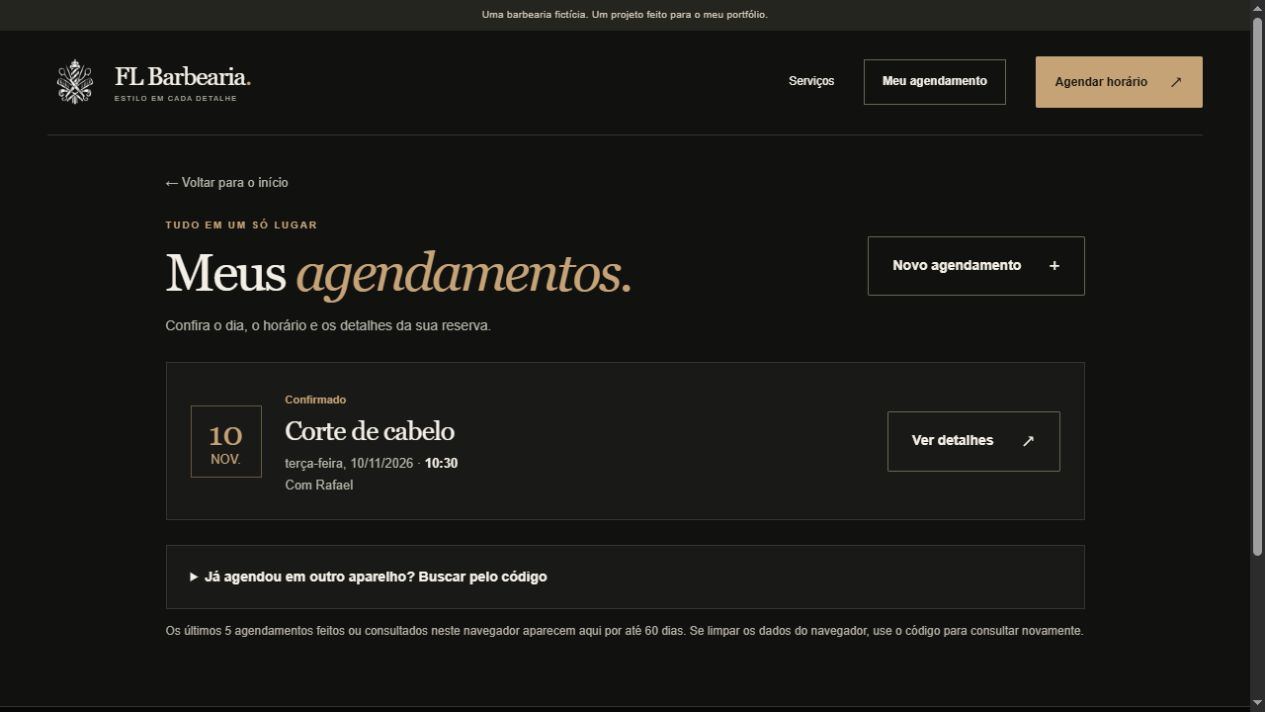
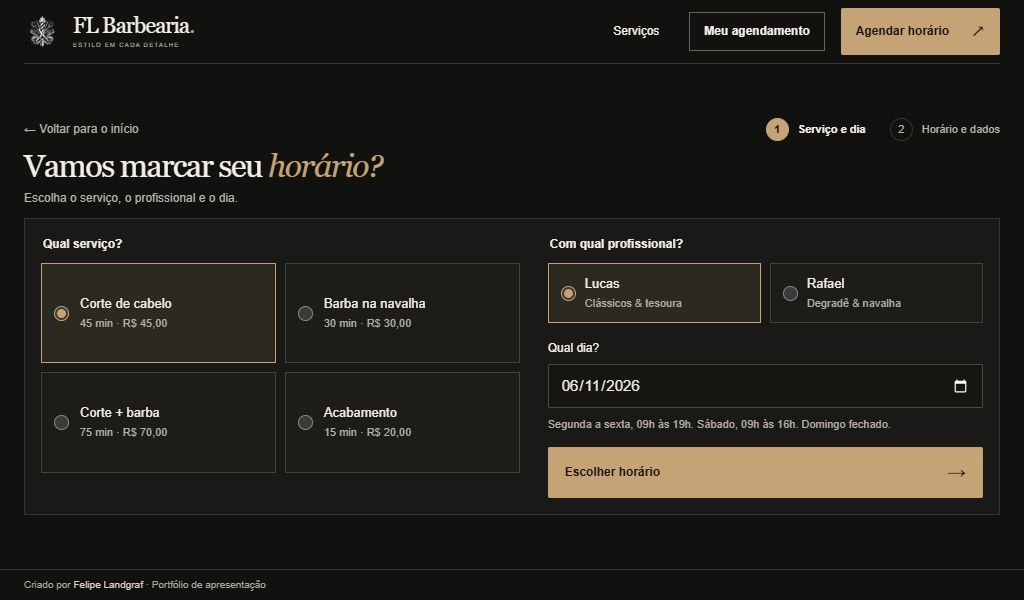
Compacta páginas de agendamento para computador e celular

diff --git a/site/agenda.css b/site/agenda.css
@@ -1,0 +1,171 @@
+.pagina-interna {
+    min-height: 100svh;
+    display: flex;
+    flex-direction: column;
+}
+
+.pagina-interna > .faixa-demo { display: none; }
+.pagina-interna .cabecalho { min-height: 64px; max-width: 1100px; width: calc(100% - 48px); padding: 0; }
+.pagina-interna .marca img { width: 36px; height: 36px; }
+.pagina-interna .marca strong { font-size: 22px; }
+.pagina-interna .marca small { font-size: 6px; }
+.pagina-interna .cabecalho nav { gap: 16px; }
+.pagina-interna .cabecalho nav > a { padding: 9px 14px; }
+.pagina-interna main { flex: 1; display: flex; align-items: center; justify-content: center; padding: 12px 24px; }
+.pagina-interna .pagina-agenda, .pagina-interna .pagina-curta { width: min(100%, 1040px); min-height: 0; margin: 0; padding: 0; }
+.pagina-interna .voltar { margin-bottom: 9px; font-size: 12px; }
+.pagina-interna .etapas { gap: 24px; }
+.pagina-interna .etapas li { font-size: 11px; }
+.pagina-interna .etapas span { width: 23px; height: 23px; }
+.navegacao-agenda { display: flex; justify-content: space-between; align-items: center; gap: 16px; margin-bottom: 8px; }
+.pagina-interna .navegacao-agenda .voltar { margin: 0; }
+.pagina-interna h1 { font-size: 32px; margin: 6px 0 5px; }
+.pagina-interna .introducao-agenda, .pagina-interna .reserva > p:not(.etiqueta) { font-size: 12px; margin-bottom: 10px; }
+.pagina-interna .agenda-formularios { padding: 16px; margin: 0; }
+.pagina-interna fieldset { margin-bottom: 16px; }
+.pagina-interna legend, .pagina-interna label { font-size: 12px; }
+.pagina-interna legend { margin-bottom: 8px; }
+.pagina-interna .escolha { padding: 10px 12px; min-height: 60px; line-height: 1.35; }
+.pagina-interna .escolha strong { font-size: 13px; }
+.pagina-interna .escolha small { font-size: 11px; margin-top: 2px; }
+.pagina-interna .iniciais { display: none; }
+.pagina-interna .botao { min-height: 42px; padding: 11px 16px; font-size: 12px; }
+.pagina-interna input:not([type="radio"]):not([type="checkbox"]):not([type="hidden"]) { min-height: 42px; padding: 9px 12px; margin-top: 5px; font-size: 15px; }
+.pagina-interna .texto-apoio { font-size: 11px; margin-top: 8px; line-height: 1.5; }
+.pagina-interna .mensagem { padding: 10px 13px; margin-bottom: 12px; }
+.pagina-interna .ajuda-final { font-size: 12px; margin-top: 12px; }
+.tela-servico #consulta-horarios { display: grid; grid-template-columns: 1.1fr 1fr; gap: 28px; }
+.tela-servico .servicos-agenda { margin: 0; }
+.tela-servico .opcoes-servico { height: calc(100% - 25px); }
+.pagina-interna .proxima-etapa { margin-top: 14px; }
+.pagina-interna .selecao-atual { font-size: 13px; padding-bottom: 10px; margin-bottom: 14px; }
+.pagina-interna .selecao-atual span { font-size: 11px; margin-top: 2px; }
+.pagina-interna .selecao-atual > div { display: flex; gap: 14px; align-items: center; }
+.tela-horarios #form-agendar { display: grid; grid-template-columns: 1.2fr 1fr; gap: 24px; align-items: start; }
+.tela-horarios .escolher-hora { margin: 0; }
+.pagina-interna .horarios { grid-template-columns: repeat(8, 1fr); gap: 6px; }
+.pagina-interna .hora span { display: grid; place-items: center; min-height: 36px; padding: 6px 2px; line-height: 1.3; font-size: 13px; }
+.pagina-interna .dados-cliente { grid-template-columns: 1fr 1fr; gap: 9px; }
+.pagina-interna .resumo { margin: 13px 0; padding-top: 11px; }
+.pagina-interna .resumo > div strong { font-size: 13px; }
+.pagina-interna .resumo > div span { font-size: 12px; }
+.pagina-interna .resumo-preco { font-size: 25px; }
+.paginacao { display: flex; justify-content: space-between; align-items: center; gap: 12px; margin-top: 10px; }
+.paginacao button { min-height: 36px; border: 1px solid #696353; background: transparent; color: var(--texto); padding: 5px 12px; font-size: 12px; }
+.paginacao button:disabled { opacity: 0.35; cursor: default; }
+.paginacao span { font-size: 11px; color: var(--suave); }
+.pagina-interna .titulo-agenda { gap: 16px; margin: 0; }
+.pagina-interna .titulo-agenda h1 { margin-top: 5px; }
+.pagina-interna .cartao-reserva { padding: 14px 18px; gap: 18px; }
+.pagina-interna .data-reserva { width: 56px; padding: 5px; }
+.pagina-interna .data-reserva strong { font-size: 28px; }
+.pagina-interna .data-reserva span { font-size: 11px; }
+.pagina-interna .cartao-informacoes h2 { font-size: 24px; margin: 2px 0 4px; }
+.pagina-interna .cartao-informacoes p { font-size: 12px; }
+.pagina-interna .lista-reservas { gap: 10px; }
+.pagina-interna .agenda-vazia { padding: 18px; }
+.pagina-interna .agenda-vazia > span { display: none; }
+.pagina-interna .agenda-vazia h2 { font-size: 26px; margin: 0 0 8px; }
+.pagina-interna .agenda-vazia p { font-size: 12px; margin-bottom: 14px; }
+.pagina-interna .buscar-reserva, .pagina-interna .historico, .pagina-interna .cancelar-reserva { margin-top: 12px; padding: 12px 16px; }
+.pagina-interna .buscar-reserva summary, .pagina-interna .historico summary, .pagina-interna .cancelar-reserva summary { font-size: 12px; }
+.pagina-interna .buscar-reserva > p { margin-top: 10px; font-size: 12px; }
+.pagina-interna .buscar-reserva form { display: grid; grid-template-columns: 1fr 1fr auto; gap: 16px; align-items: end; margin-top: 12px; }
+.pagina-interna .buscar-reserva label { margin: 0; }
+.pagina-interna .historico .lista-reservas { margin-top: 12px; }
+.meus-agendamentos:has(.buscar-reserva[open]) .area-reservas { display: none; }
+.area-reservas:has(.historico[open]) > .lista-reservas, .area-reservas:has(.historico[open]) > .paginacao, .area-reservas:has(.historico[open]) > .agenda-vazia { display: none; }
+.pagina-interna .reserva { max-width: 960px; }
+.navegacao-reserva { display: flex; justify-content: space-between; gap: 16px; align-items: center; margin-bottom: 8px; }
+.pagina-interna .navegacao-reserva .voltar { margin: 0; }
+.resumo-cancelar { display: none; }
+.pagina-interna .reserva-conteudo { display: grid; grid-template-columns: 1.2fr 1fr; gap: 24px; align-items: start; }
+.pagina-interna .bilhete { margin: 0; padding: 18px 22px; }
+.pagina-interna .bilhete-topo { margin-bottom: 12px; padding-bottom: 10px; }
+.pagina-interna .bilhete h2 { font-size: 30px; }
+.pagina-interna .bilhete > p { margin: 4px 0 14px; }
+.pagina-interna .bilhete dl > div { margin: 8px 0; }
+.pagina-interna .bilhete dd { font-size: 14px; }
+.pagina-interna .codigo-reserva { margin-top: 14px; padding-top: 12px; }
+.pagina-interna .codigo-reserva strong { font-size: 20px; }
+.pagina-interna .ver-agendamentos { margin: 0; }
+.pagina-interna .reserva-acao { margin-top: 12px; }
+.pagina-interna .cancelar-reserva { margin-top: 0; }
+.pagina-interna .cancelar-reserva form { margin-top: 12px; }
+.pagina-interna .confirmar-cancelamento { font-size: 12px; margin: 14px 0; }
+.pagina-interna .rodape { padding: 7px 24px; background: transparent; }
+.pagina-interna .rodape-topo { display: none; }
+.pagina-interna .rodape-final { border: 0; padding: 0; max-width: 1100px; font-size: 10px; }
+.pagina-interna .rodape-final > span { display: none; }
+
+@media (max-width: 760px) {
+    .pagina-interna .cabecalho { width: calc(100% - 28px); min-height: 0; padding: 6px 0; gap: 6px; }
+    .pagina-interna .marca { gap: 8px; }
+    .pagina-interna .marca strong { font-size: 20px; }
+    .pagina-interna .marca img { width: 26px; height: 26px; }
+    .pagina-interna .marca small { display: none; }
+    .pagina-interna .cabecalho nav { gap: 8px; }
+    .pagina-interna .cabecalho nav > a { padding: 7px 10px; min-height: 34px; font-size: 11px; }
+    .pagina-interna .cabecalho nav .botao { gap: 10px; min-height: 34px; padding: 6px 10px; }
+    .pagina-interna .cabecalho nav .botao span { font-size: 14px; }
+    .pagina-interna main { padding: 10px 14px; }
+    .pagina-interna .voltar { margin-bottom: 7px; font-size: 11px; }
+    .pagina-interna h1 { font-size: 28px; margin: 8px 0 5px; }
+    .pagina-interna .etapas { gap: 12px; }
+    .pagina-interna .etapas li { font-size: 10px; gap: 6px; white-space: nowrap; }
+    .pagina-interna .etapas span { width: 21px; height: 21px; }
+    .pagina-interna .navegacao-agenda { gap: 8px; }
+    .pagina-interna .navegacao-agenda .voltar { font-size: 10px; white-space: nowrap; }
+    .pagina-interna .introducao-agenda, .pagina-interna .reserva > p:not(.etiqueta) { font-size: 12px; margin-bottom: 10px; }
+    .pagina-interna .agenda-formularios { padding: 14px; }
+    .tela-servico #consulta-horarios, .tela-horarios #form-agendar, .pagina-interna .reserva-conteudo { grid-template-columns: 1fr; gap: 12px; }
+    .tela-servico .opcoes-servico { height: auto; }
+    .pagina-interna fieldset { margin-bottom: 10px; }
+    .pagina-interna .escolha { padding: 7px 9px; min-height: 48px; gap: 8px; }
+    .pagina-interna .escolha strong { font-size: 12px; }
+    .pagina-interna .escolha small { font-size: 10px; }
+    .pagina-interna .opcoes-servico, .pagina-interna .opcoes-barbeiro { gap: 7px; }
+    .pagina-interna input:not([type="radio"]):not([type="checkbox"]):not([type="hidden"]) { font-size: 16px; min-height: 42px; }
+    .pagina-interna .texto-apoio { font-size: 10px; margin-top: 6px; }
+    .pagina-interna .proxima-etapa { margin-top: 10px; }
+    .pagina-interna .ajuda-final { font-size: 11px; margin-top: 9px; }
+    .pagina-interna .horarios { grid-template-columns: repeat(4, 1fr); }
+    .pagina-interna .hora span { padding: 6px 2px; }
+    .pagina-interna .dados-cliente { grid-template-columns: 1fr 1fr; gap: 9px; }
+    .pagina-interna .resumo { margin: 9px 0; padding-top: 8px; }
+    .pagina-interna .resumo > div strong { font-size: 12px; }
+    .pagina-interna .resumo > div span { font-size: 11px; }
+    .pagina-interna .selecao-atual { padding-bottom: 8px; margin-bottom: 10px; }
+    .pagina-interna .selecao-atual span { display: none; }
+    .tela-horarios .introducao-agenda { display: none; }
+    .pagina-interna .titulo-agenda { display: flex; align-items: center; gap: 10px; }
+    .pagina-interna .titulo-agenda h1 { font-size: 28px; }
+    .pagina-interna .titulo-agenda .etiqueta { display: none; }
+    .pagina-interna .titulo-agenda .botao { min-height: 34px; padding: 8px 10px; font-size: 10px; gap: 6px; }
+    .pagina-interna .cartao-reserva { gap: 12px; padding: 13px; }
+    .pagina-interna .cartao-reserva .botao { min-height: 36px; }
+    .pagina-interna .cartao-informacoes h2 { font-size: 24px; }
+    .pagina-interna .cartao-informacoes p { font-size: 11px; }
+    .pagina-interna .agenda-vazia h2 { font-size: 23px; }
+    .pagina-interna .buscar-reserva form { grid-template-columns: 1fr; gap: 10px; }
+    .pagina-interna .buscar-reserva, .pagina-interna .historico, .pagina-interna .cancelar-reserva { padding: 11px 13px; margin-top: 10px; }
+    .pagina-interna .bilhete { padding: 14px 17px; }
+    .pagina-interna .bilhete-topo { margin-bottom: 10px; padding-bottom: 8px; }
+    .pagina-interna .bilhete h2 { font-size: 27px; }
+    .pagina-interna .bilhete > p { margin-bottom: 10px; }
+    .pagina-interna .bilhete dl > div { margin: 6px 0; }
+    .pagina-interna .bilhete dd { font-size: 12px; }
+    .pagina-interna .codigo-reserva { margin-top: 10px; padding-top: 9px; }
+    .pagina-interna .codigo-reserva summary { font-size: 11px; }
+    .pagina-interna .cancelar-reserva { margin-top: 0; }
+    .reserva:has(.cancelar-reserva[open]) .bilhete { display: none; }
+    .reserva:has(.codigo-reserva[open]) > p:not(.etiqueta) { display: none; }
+    .reserva:has(.cancelar-reserva[open]) .resumo-cancelar { display: grid; gap: 4px; margin-bottom: 14px; font-size: 13px; }
+    .resumo-cancelar span { color: var(--suave); font-size: 12px; }
+    .pagina-interna .rodape { padding: 6px 14px; }
+    .pagina-interna .rodape-final { font-size: 9px; }
+}
+
+@media (min-width: 761px) and (max-width: 1000px) {
+    .pagina-interna .horarios { grid-template-columns: repeat(6, 1fr); }
+}

diff --git a/site/script.js b/site/script.js
@@ -1,5 +1,69 @@
 const formularioAgendar = document.querySelector('#form-agendar');
 
+document.querySelectorAll('.pagina-interna .horarios, .pagina-interna .lista-reservas').forEach(function (lista) {
+    const itens = Array.from(lista.children).filter(function (item) {
+        return item.matches('.hora, .cartao-reserva');
+    });
+    if (itens.length === 0) return;
+
+    const horarios = lista.classList.contains('horarios');
+    const navegacao = document.createElement('div');
+    const anterior = document.createElement('button');
+    const proximo = document.createElement('button');
+    const contador = document.createElement('span');
+    navegacao.className = 'paginacao';
+    anterior.type = 'button';
+    proximo.type = 'button';
+    anterior.textContent = '← Anterior';
+    proximo.textContent = 'Próximos →';
+    anterior.setAttribute('aria-label', horarios ? 'Horários anteriores' : 'Agendamentos anteriores');
+    proximo.setAttribute('aria-label', horarios ? 'Próximos horários' : 'Próximos agendamentos');
+    contador.setAttribute('aria-live', 'polite');
+    navegacao.append(anterior, contador, proximo);
+    lista.after(navegacao);
+
+    let limite = quantidadePorPagina();
+    const selecionado = itens.findIndex(function (item) { return item.querySelector('input:checked'); });
+    let pagina = Math.floor(Math.max(0, selecionado) / limite);
+
+    function quantidadePorPagina() {
+        const celular = window.innerWidth <= 760;
+        return horarios ? (celular ? 8 : itens.length) : (celular || window.innerHeight < 700 ? 1 : 2);
+    }
+
+    function mostrarPagina() {
+        const inicio = pagina * limite;
+        itens.forEach(function (item, indice) {
+            const visivel = indice >= inicio && indice < inicio + limite;
+            item.hidden = !visivel;
+            const entrada = item.querySelector('input');
+            if (entrada) {
+                entrada.disabled = !visivel;
+                if (!visivel && entrada.checked) {
+                    entrada.checked = false;
+                    document.querySelector('#horario-escolhido').textContent = 'Escolha um horário acima';
+                }
+            }
+        });
+        navegacao.hidden = itens.length <= limite;
+        anterior.disabled = pagina === 0;
+        proximo.disabled = inicio + limite >= itens.length;
+        contador.textContent = (inicio + 1) + '–' + Math.min(inicio + limite, itens.length) + ' de ' + itens.length;
+    }
+
+    anterior.addEventListener('click', function () { pagina--; mostrarPagina(); });
+    proximo.addEventListener('click', function () { pagina++; mostrarPagina(); });
+    window.addEventListener('resize', function () {
+        const novoLimite = quantidadePorPagina();
+        if (novoLimite !== limite) {
+            limite = novoLimite;
+            pagina = 0;
+            mostrarPagina();
+        }
+    });
+    mostrarPagina();
+});
+
 if (formularioAgendar) {
     formularioAgendar.querySelectorAll('input[name="horario"]').forEach(function (horario) {
         horario.addEventListener('change', function () {

diff --git a/site/horarios.html b/site/horarios.html
@@ -1,7 +1,7 @@
-<section class="pagina-agenda">
-    <a class="voltar" href="{{alterar}}">← Alterar serviço ou dia</a>
-    <ol class="etapas" aria-label="Etapas do agendamento"><li><span>✓</span> Serviço e dia</li><li aria-current="step"><span>2</span> Horário e confirmação</li></ol>
-    <h1>Qual horário<br>fica <em>melhor?</em></h1>
+<section class="pagina-agenda tela-horarios">
+    <div class="navegacao-agenda"><a class="voltar" href="{{alterar}}">← Alterar serviço ou dia</a>
+    <ol class="etapas" aria-label="Etapas do agendamento"><li><span>✓</span> Serviço e dia</li><li aria-current="step"><span>2</span> Horário e dados</li></ol></div>
+    <h1>Qual horário fica <em>melhor?</em></h1>
     <p class="introducao-agenda">{{servico_nome}} com {{barbeiro_nome}} · {{duracao}} min · {{preco}}</p>
     <div class="agenda-formularios">
         <div class="selecao-atual"><div><strong>{{dia_extenso}}</strong><span>{{quantidade}}</span></div><a href="{{alterar}}">Alterar</a></div>
@@ -11,15 +11,16 @@
             <input type="hidden" name="servico" value="{{servico_id}}">
             <input type="hidden" name="barbeiro" value="{{barbeiro_id}}">
             <input type="hidden" name="data" value="{{data}}">
-            <fieldset><legend>Toque em um horário disponível</legend><div class="horarios">{{horarios}}</div></fieldset>
+            <fieldset class="escolher-hora"><legend>Toque em um horário disponível</legend><div class="horarios">{{horarios}}</div></fieldset>
+            <div class="finalizar-reserva">
             <div class="dados-cliente">
                 <label for="nome">Seu nome<input id="nome" name="nome" autocomplete="name" placeholder="Como podemos chamar você?" minlength="3" maxlength="80" value="{{nome}}" required></label>
                 <label for="telefone">Telefone com DDD<input id="telefone" type="tel" name="telefone" autocomplete="tel-national" inputmode="tel" placeholder="(19) 99999-9999" maxlength="16" pattern="[0-9() +\-]{10,16}" value="{{telefone}}" required></label>
             </div>
             <div class="resumo"><div><strong>{{servico_nome}} · {{barbeiro_nome}}</strong><span id="horario-escolhido" aria-live="polite">{{horario_selecionado}}</span></div><strong class="resumo-preco">{{preco}}</strong></div>
             <button type="submit" class="botao confirmar" id="confirmar" {{desabilitado}}>Confirmar agendamento <span aria-hidden="true">✓</span></button>
-            <p class="texto-apoio">Depois de confirmar, sua reserva aparece em “Meu agendamento” neste navegador.</p>
-            <p class="texto-apoio">Projeto de demonstração: use dados fictícios. Nenhum pagamento é realizado.</p>
+            <p class="texto-apoio">Sua reserva aparece em “Meu agendamento”. Use dados fictícios: este projeto não realiza cobranças.</p>
+            </div>
         </form>
     </div>
 </section>

diff --git a/site/agendar.html b/site/agendar.html
@@ -1,18 +1,19 @@
-<section class="pagina-agenda">
-    <a class="voltar" href="/">← Voltar para o início</a>
-    <ol class="etapas" aria-label="Etapas do agendamento"><li aria-current="step"><span>1</span> Serviço e dia</li><li><span>2</span> Horário e confirmação</li></ol>
-    <h1>Vamos marcar<br>seu <em>horário?</em></h1>
-    <p class="introducao-agenda">Escolha o serviço, o profissional e o melhor dia para você.</p>
+<section class="pagina-agenda tela-servico">
+    <div class="navegacao-agenda"><a class="voltar" href="/">← Voltar para o início</a>
+    <ol class="etapas" aria-label="Etapas do agendamento"><li aria-current="step"><span>1</span> Serviço e dia</li><li><span>2</span> Horário e dados</li></ol></div>
+    <h1>Vamos marcar seu <em>horário?</em></h1>
+    <p class="introducao-agenda">Escolha o serviço, o profissional e o dia.</p>
     <div class="agenda-formularios">
         {{aviso}}
         <form method="get" action="/agendar" id="consulta-horarios">
             <input type="hidden" name="etapa" value="horarios">
-            <fieldset><legend>Qual serviço?</legend><div class="opcoes-servico">{{servicos}}</div></fieldset>
+            <fieldset class="servicos-agenda"><legend>Qual serviço?</legend><div class="opcoes-servico">{{servicos}}</div></fieldset>
+            <div class="dia-profissional">
             <fieldset><legend>Com qual profissional?</legend><div class="opcoes-barbeiro">{{barbeiros}}</div></fieldset>
             <label for="data">Qual dia?<input id="data" type="date" name="data" value="{{data}}" min="{{minimo}}" max="{{maximo}}" required></label>
             <p class="texto-apoio">Segunda a sexta, 09h às 19h. Sábado, 09h às 16h. Domingo fechado.</p>
             <button class="botao confirmar proxima-etapa" type="submit">Escolher horário <span aria-hidden="true">→</span></button>
+            </div>
         </form>
     </div>
-    <p class="ajuda-final">Já fez uma reserva? <a href="/consultar">Ver meu agendamento</a></p>
 </section>

diff --git a/site/reserva.html b/site/reserva.html
@@ -1,16 +1,15 @@
 <section class="pagina-curta reserva">
-    <a class="voltar" href="/consultar">← Meus agendamentos</a>
-    <span class="reserva-icone" aria-hidden="true">{{simbolo}}</span>
-    <p class="etiqueta">{{estado}}</p>
+    <div class="navegacao-reserva"><a class="voltar" href="/consultar">← Meus agendamentos</a><p class="etiqueta">{{estado}}</p></div>
     <h1>{{titulo}}</h1>
-    <p>Confira seu horário. Você pode voltar a esta reserva em “Meu agendamento”.</p>
-    <div class="bilhete">
+    <p>Confira o dia e o horário da sua reserva.</p>
+    <div class="reserva-conteudo"><div class="bilhete">
         <div class="bilhete-topo"><span>FL BARBEARIA</span><span>SEU MOMENTO</span></div>
         <h2>{{servico}}</h2>
         <p>Com {{barbeiro}}</p>
         <dl><div><dt>Dia</dt><dd>{{data}}</dd></div><div><dt>Horário</dt><dd>{{horario}} às {{fim}}</dd></div><div><dt>Valor ilustrativo</dt><dd>{{preco}}</dd></div></dl>
         <details class="codigo-reserva"><summary>Código para consultar em outro aparelho</summary><strong id="codigo-reserva">{{codigo}}</strong><button type="button" id="copiar-codigo">Copiar código <span aria-hidden="true">↗</span></button><small id="retorno-copia" aria-live="polite">Guarde o código se quiser consultar em outro navegador.</small></details>
     </div>
-    <a class="botao confirmar ver-agendamentos" href="/consultar">Ver meus agendamentos <span aria-hidden="true">→</span></a>
+    <div class="acoes-reserva"><div class="resumo-cancelar"><strong>{{servico}} com {{barbeiro}}</strong><span>{{data}} · {{horario}}</span></div><a class="botao confirmar ver-agendamentos" href="/consultar">Ver meus agendamentos <span aria-hidden="true">→</span></a>
     <div class="reserva-acao">{{acao}}</div>
+    </div></div>
 </section>

diff --git a/site/consulta.html b/site/consulta.html
@@ -2,7 +2,7 @@
     <a class="voltar" href="/">← Voltar para o início</a>
     <div class="titulo-agenda"><div><p class="etiqueta">TUDO EM UM SÓ LUGAR</p><h1>Meus <em>agendamentos.</em></h1></div><a class="botao contorno" href="/agendar">Novo agendamento <span aria-hidden="true">+</span></a></div>
     <p class="introducao-agenda">Confira o dia, o horário e os detalhes da sua reserva.</p>
-    {{reservas}}
+    <div class="area-reservas">{{reservas}}</div>
     <details class="buscar-reserva" {{aberto}}>
         <summary>Já agendou em outro aparelho? Buscar pelo código</summary>
         <p>Informe o código recebido na confirmação e o telefone usado na reserva.</p>

diff --git a/site/layout.html b/site/layout.html
@@ -8,9 +8,10 @@
     <title>{{titulo}}</title>
     <link rel="icon" href="/imagens/simbolo.png" type="image/png">
     <link rel="stylesheet" href="/estilo.css">
+    <link rel="stylesheet" href="/agenda.css">
     <script src="/script.js" defer></script>
 </head>
-<body>
+<body class="{{classe}}">
     <a class="pular" href="#conteudo">Pular para o conteúdo</a>
     <div class="faixa-demo">Uma barbearia fictícia. Um projeto feito para o meu portfólio.</div>
     <header class="cabecalho">

diff --git a/src/barbearia/Pagina.java b/src/barbearia/Pagina.java
@@ -47,7 +47,7 @@ public class Pagina {
             }
         }
         return layout("FL Barbearia — Seu estilo, sua assinatura", preencher("inicio.html", Map.of(
-            "cards", cards.toString(), "lembrete", lembrete)));
+            "cards", cards.toString(), "lembrete", lembrete)), "pagina-inicial");
     }
 
     public String agendar(Map<String, String> parametros, String aviso) throws IOException, SQLException {
@@ -173,7 +173,11 @@ public class Pagina {
     }
 
     private String layout(String titulo, String conteudo) throws IOException {
-        return preencher("layout.html", Map.of("titulo", titulo, "conteudo", conteudo));
+        return layout(titulo, conteudo, "pagina-interna");
+    }
+
+    private String layout(String titulo, String conteudo, String classe) throws IOException {
+        return preencher("layout.html", Map.of("titulo", titulo, "conteudo", conteudo, "classe", classe));
     }
 
     private String preencher(String arquivo, Map<String, String> dados) throws IOException {

diff --git a/src/barbearia/Servidor.java b/src/barbearia/Servidor.java
@@ -173,7 +173,7 @@ public class Servidor {
 
     private boolean arquivo(HttpExchange pedido, String caminho) throws IOException {
         Map<String, String> arquivos = Map.of(
-            "/estilo.css", "text/css; charset=utf-8", "/script.js", "text/javascript; charset=utf-8",
+            "/estilo.css", "text/css; charset=utf-8", "/agenda.css", "text/css; charset=utf-8", "/script.js", "text/javascript; charset=utf-8",
             "/imagens/simbolo.png", "image/png", "/imagens/cadeira.jpg", "image/jpeg");
         if (!arquivos.containsKey(caminho)) return false;
         byte[] conteudo = Files.readAllBytes(site.resolve(caminho.substring(1)));
